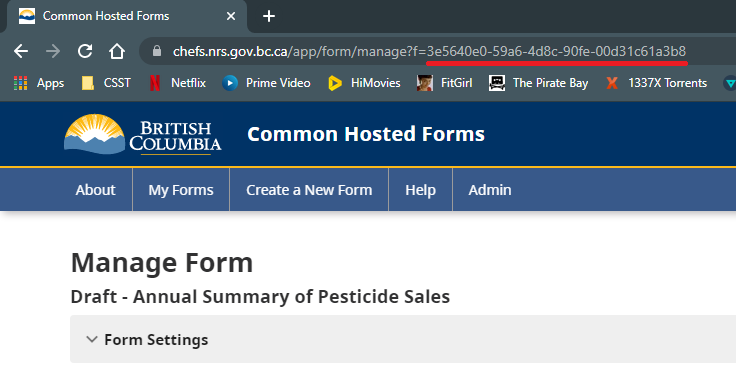
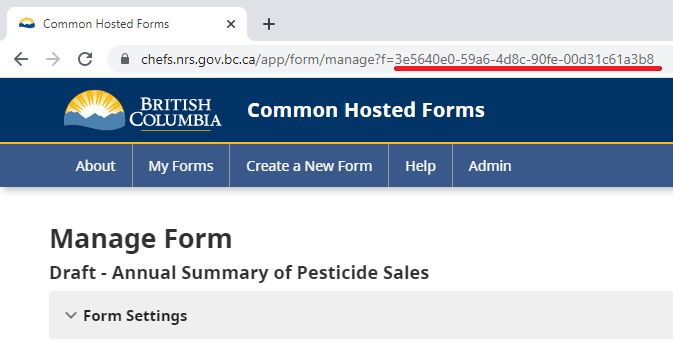
replacing img and removing login

diff --git a/Generating-API-Keys.md b/Generating-API-Keys.md
@@ -1,11 +1,8 @@
 Connect your 3rd party applications with CHEFS to give it access to any of your Form's Data through our [Documented CHEFS API Specifications](https://chefs.nrs.gov.bc.ca/app/api/v1/docs).
 
-> Follow along with our example<br>
-> [Login](https://chefs.nrs.gov.bc.ca/app/user/forms)
-
 ## How to Generate/Regenerate API Key
 
-You can generate an API key by going to your Form Settings, and opening the `API Key` Panel. If you want to generate a new API Key, click the `Generate API Key` button bellow and confirm your selection.
+You can generate an API key by going to your Form Settings, and opening the `API Key` Panel. If you want to generate a new API Key, click the `Generate API Key` button bellow and confirm your selection. You can only perform this on programatic level.
 
 ![HTML Tag: div, CSS Class: alert alert-primary](images/generate_key.png)
 
